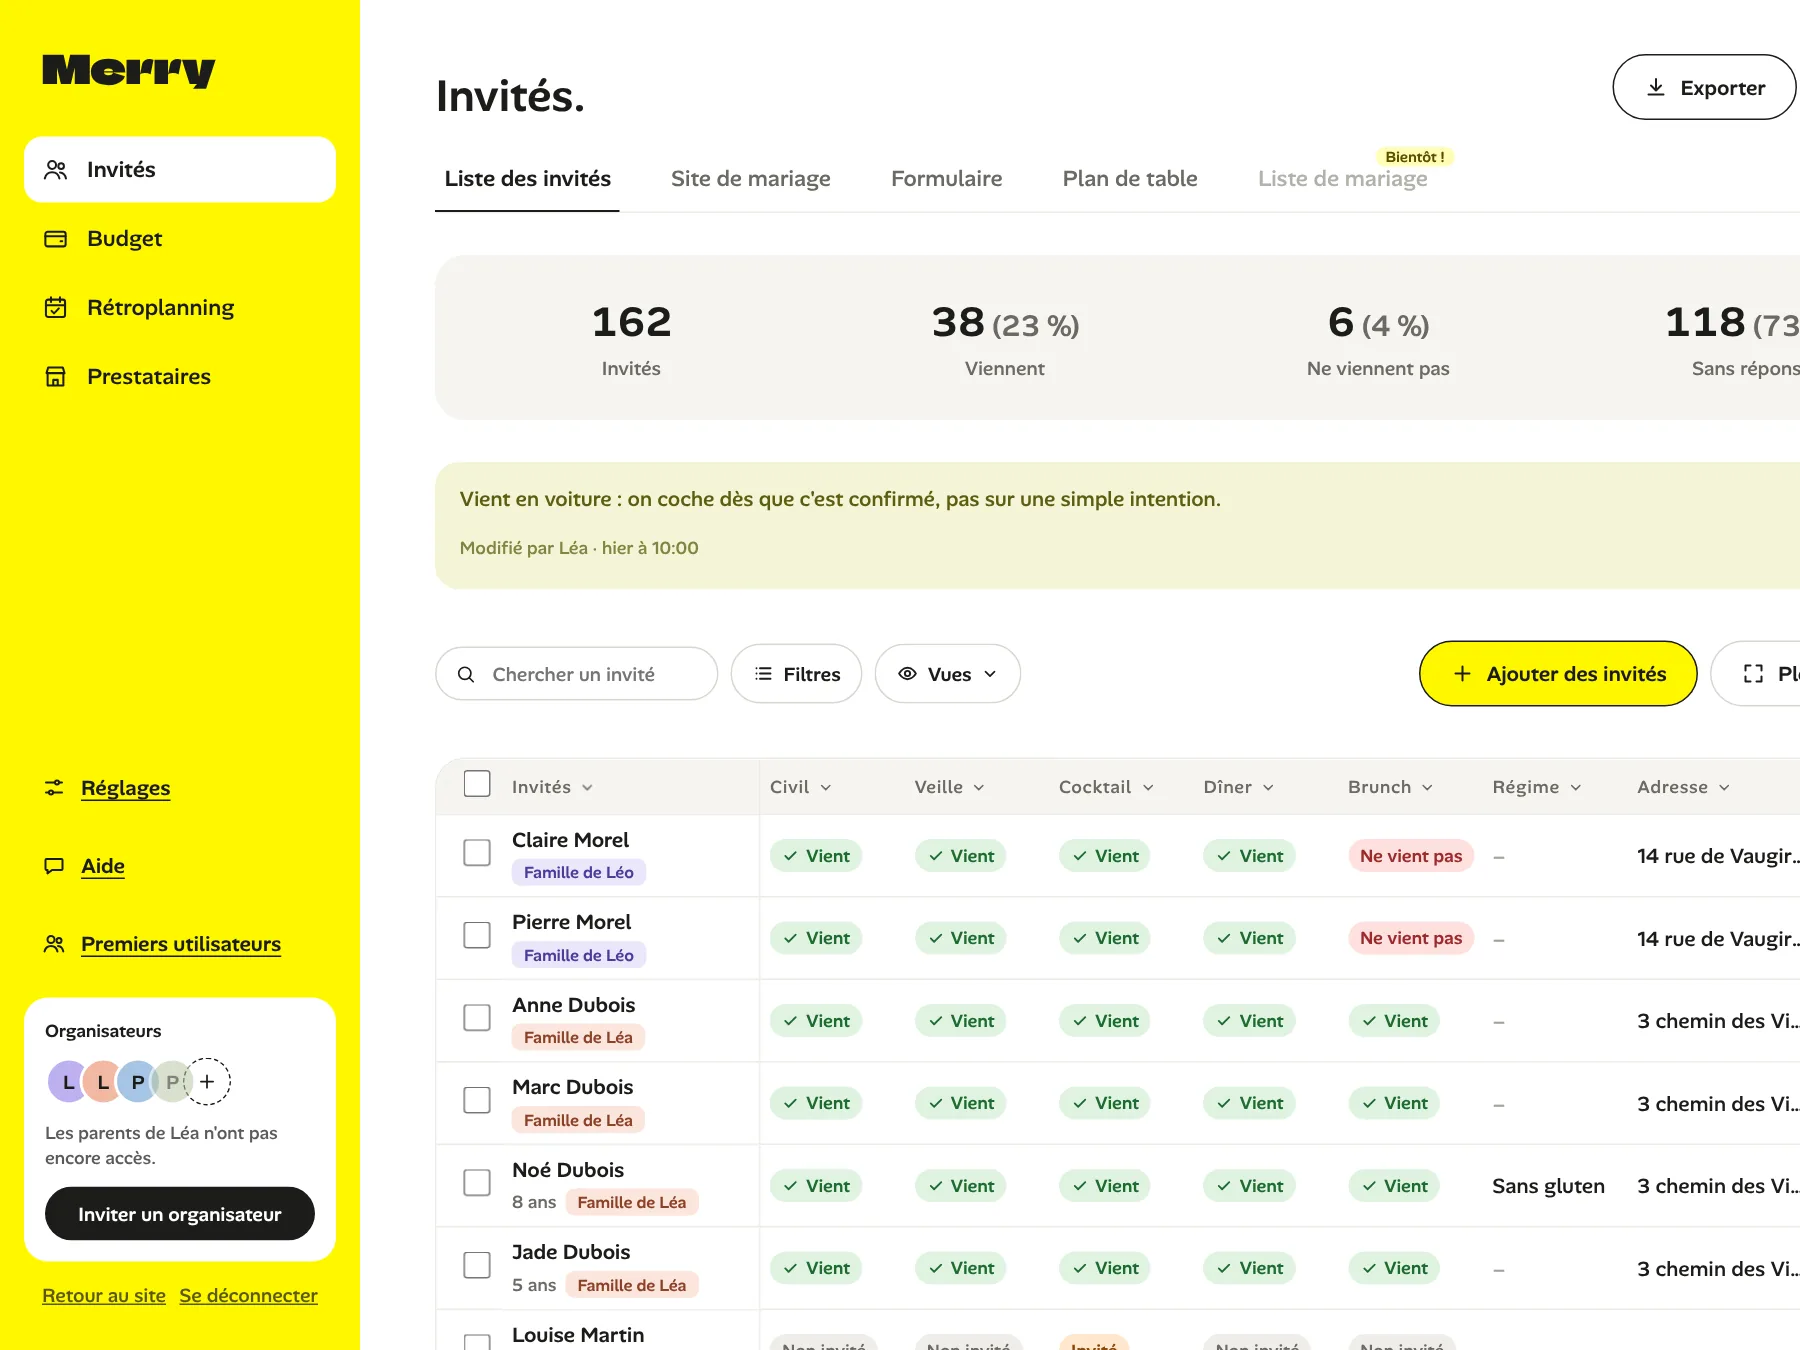
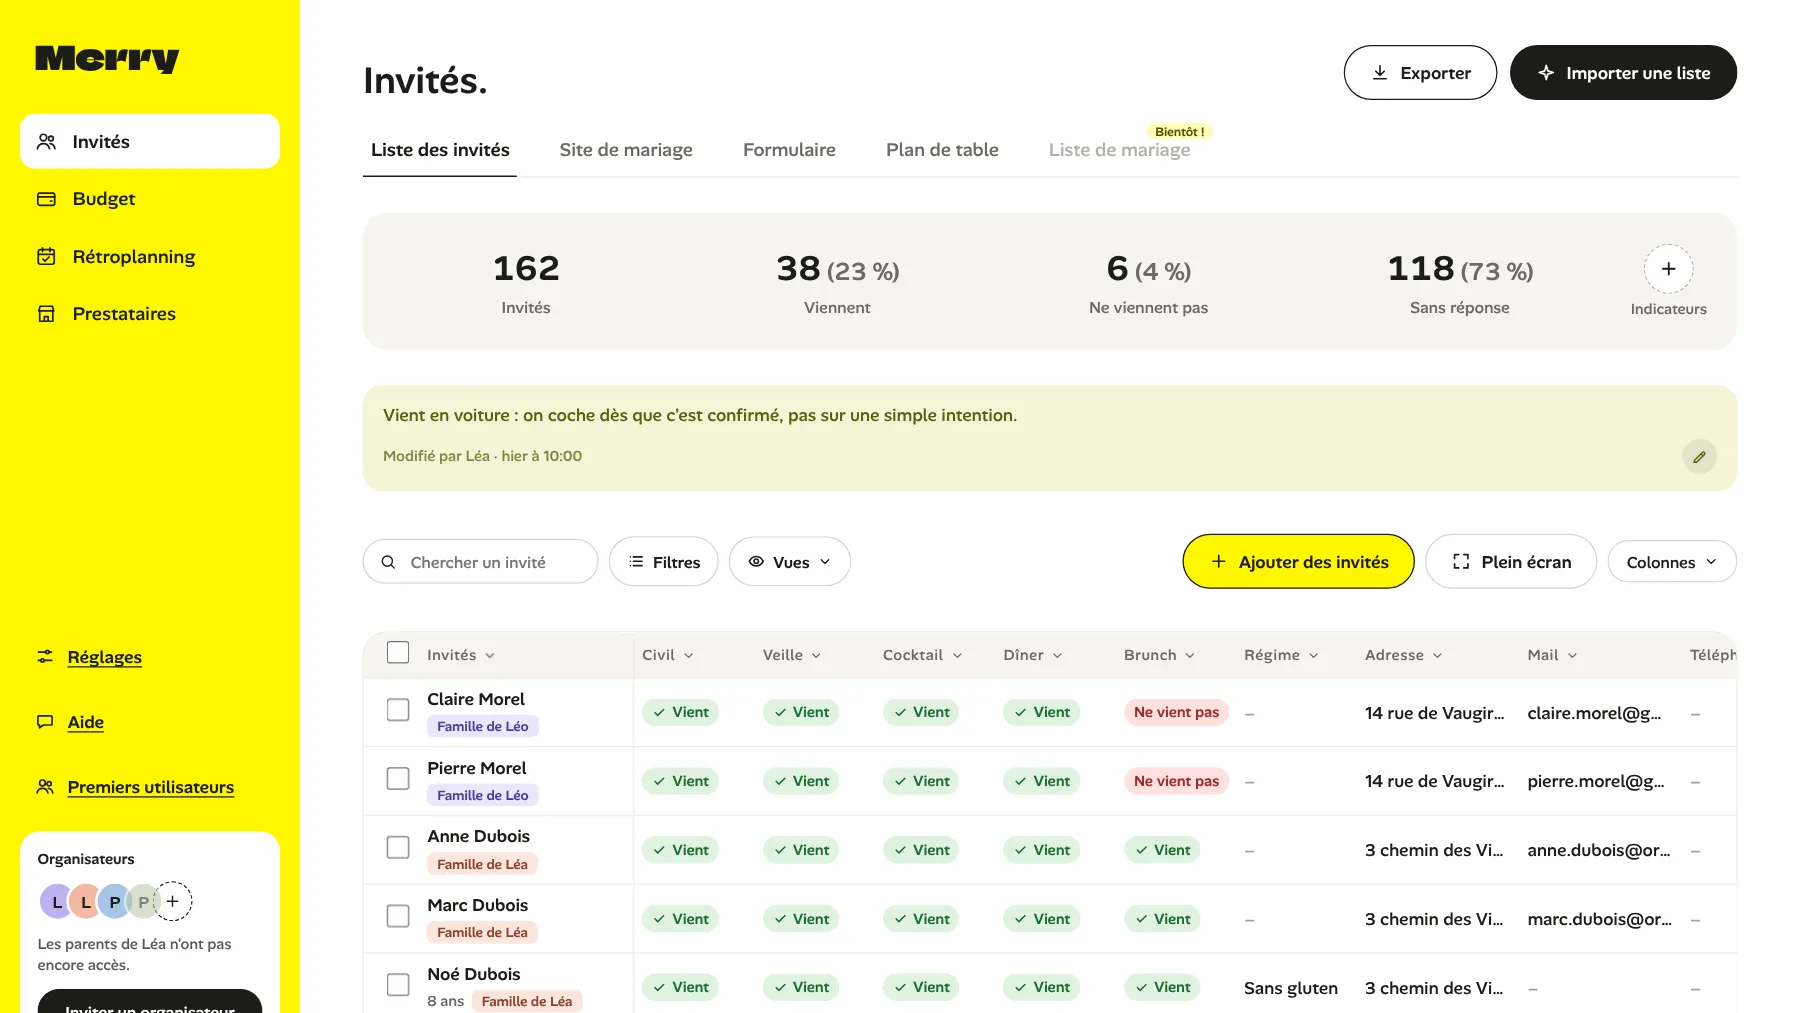
Comment ça marche : capture réelle de la page Prestataires, vignettes en 16:9
L'écran de l'étape 2 est une capture d'un vrai compte (recommandations de lieux avec photos, sélection
en cours). Les trois vignettes passent en 16:9 pour l'accueillir sans couper les cartes ; le questionnaire
et la liste des invités sont recadrés au même format.

Claude-Session: https://claude.ai/code/session_01AHuc7TnqCBAr3uqmtYhBYz

diff --git a/app/vitrine/page.js b/app/vitrine/page.js
@@ -5,12 +5,12 @@ import { formatProof, getProof } from "@/lib/vitrine/proof";
 import proposition from "@/lib/vitrine/blocks/proposition";
 import carrousel from "@/lib/vitrine/blocks/carrousel";
 
-// Trois étapes, chacune avec l'écran correspondant (public/vitrine/etapes) : le questionnaire « L'essentiel »
-// de l'onboarding, la page Prestataires du tableau de bord, la liste des invités.
+// Trois étapes, chacune avec l'écran correspondant (public/vitrine/etapes, 16:9) : le questionnaire « L'essentiel »
+// de l'onboarding, la page Prestataires d'un vrai compte, la liste des invités.
 const STEPS = [
-  ["brief", 1800, 1260, "Raconte-nous ton mariage.", "Date, lieu, nombre d'invités, budget, ambiance. Merry en tire un rétroplanning et une répartition du budget à ta taille."],
-  ["prestataires", 1800, 1089, "Reçois des prestataires qui matchent.", "Lieux, traiteurs, photographes, DJ : plusieurs options, libres à ta date, dans ton budget. C'est toi qui choisis."],
-  ["pilotage", 1800, 1350, "Pilote tout au même endroit.", "Invités, réponses, paiements, documents, site de mariage. À plusieurs, avec tes parents et tes témoins."],
+  ["brief", 1800, 1013, "Raconte-nous ton mariage.", "Date, lieu, nombre d'invités, budget, ambiance. Merry en tire un rétroplanning et une répartition du budget à ta taille."],
+  ["prestataires", 1800, 1013, "Reçois des prestataires qui matchent.", "Lieux, traiteurs, photographes, DJ : plusieurs options, libres à ta date, dans ton budget. C'est toi qui choisis."],
+  ["pilotage", 1800, 1013, "Pilote tout au même endroit.", "Invités, réponses, paiements, documents, site de mariage. À plusieurs, avec tes parents et tes témoins."],
 ];
 
 const FAQ = [

diff --git a/app/vitrine/vitrine.css b/app/vitrine/vitrine.css
@@ -80,7 +80,7 @@
 .wv-how-g { list-style: none; margin: 40px 0 0; padding: 0; display: grid; grid-template-columns: repeat(3, minmax(0, 1fr)); gap: 28px; }
 .wv-how-card { display: flex; flex-direction: column; gap: 14px; }
 .wv-how-n { display: inline-flex; align-items: center; justify-content: center; width: 36px; height: 36px; border-radius: 999px; background: #fff700; font-weight: 700; font-size: 15px; }
-.wv-how-shot { border: 1px solid #e1dfd9; border-radius: 18px; overflow: hidden; aspect-ratio: 4 / 3; background: #f6f5f1; }
+.wv-how-shot { border: 1px solid #e1dfd9; border-radius: 18px; overflow: hidden; aspect-ratio: 16 / 9; background: #f6f5f1; }
 .wv-how-shot img { width: 100%; height: 100%; object-fit: cover; object-position: left top; display: block; }
 .wv-how-card h3 { margin: 0; font-size: 22px; font-weight: 600; letter-spacing: -0.01em; line-height: 1.2; }
 .wv-how-card p { margin: 0; font-size: 16px; line-height: 1.55; }
